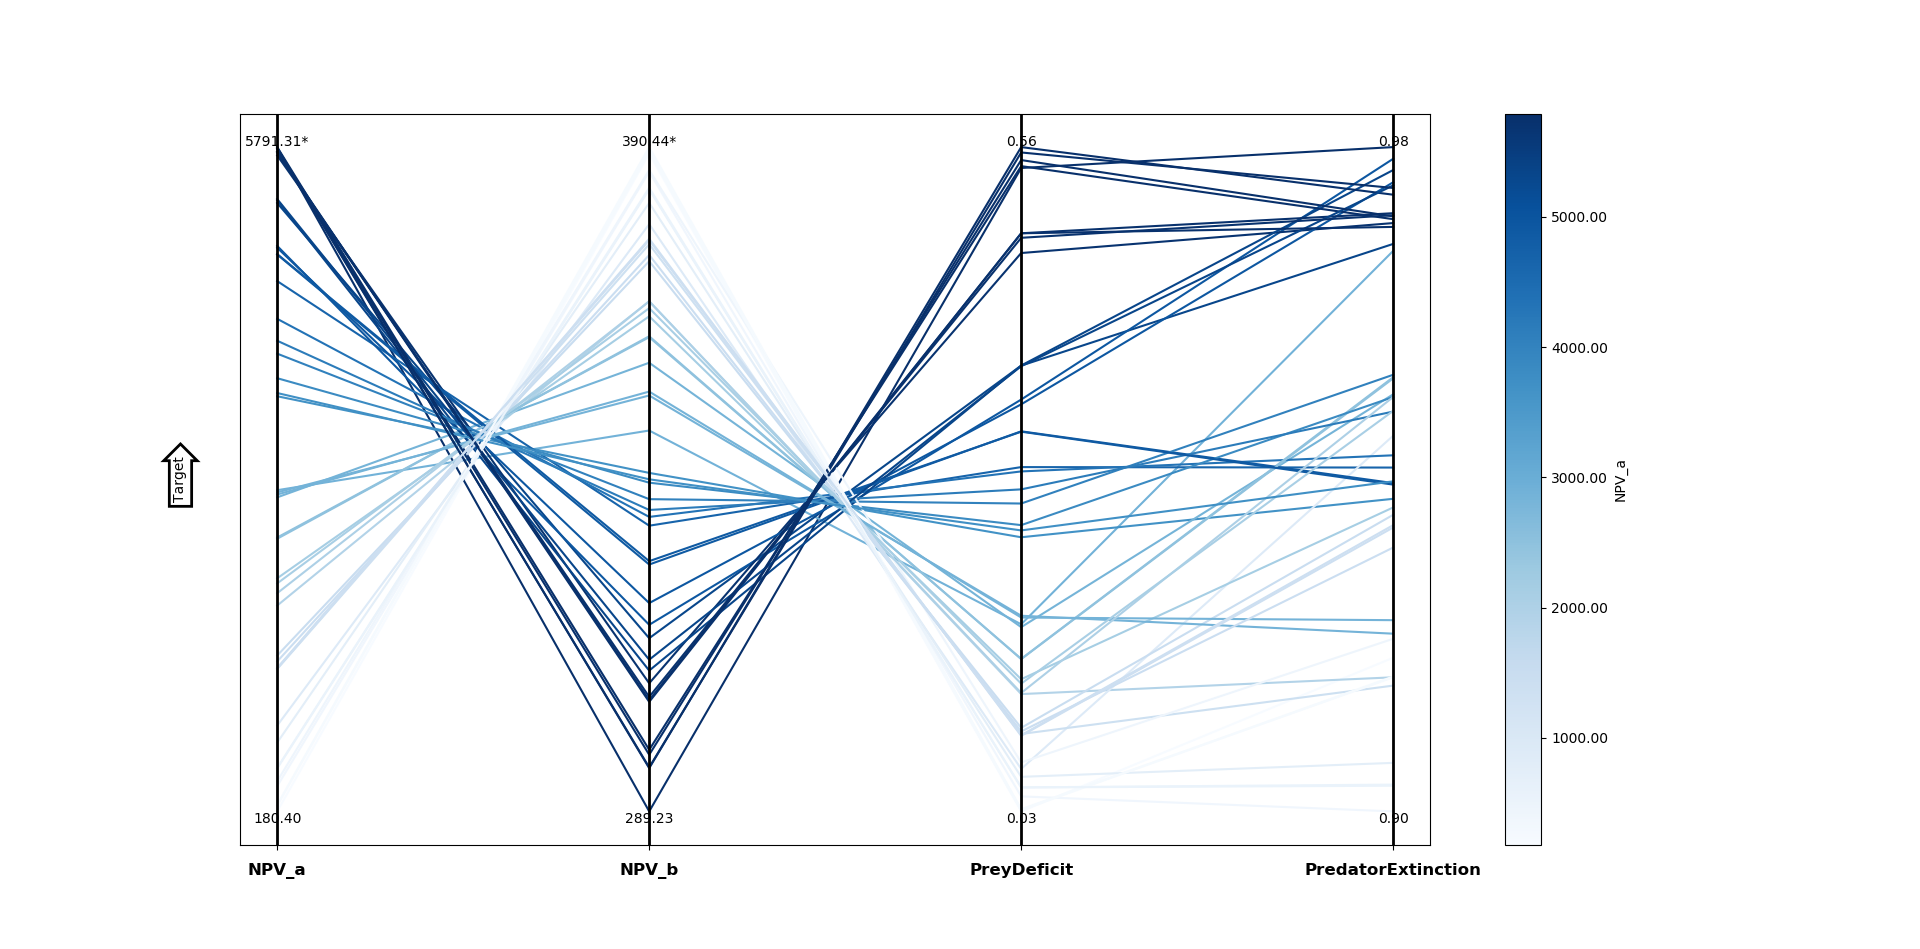
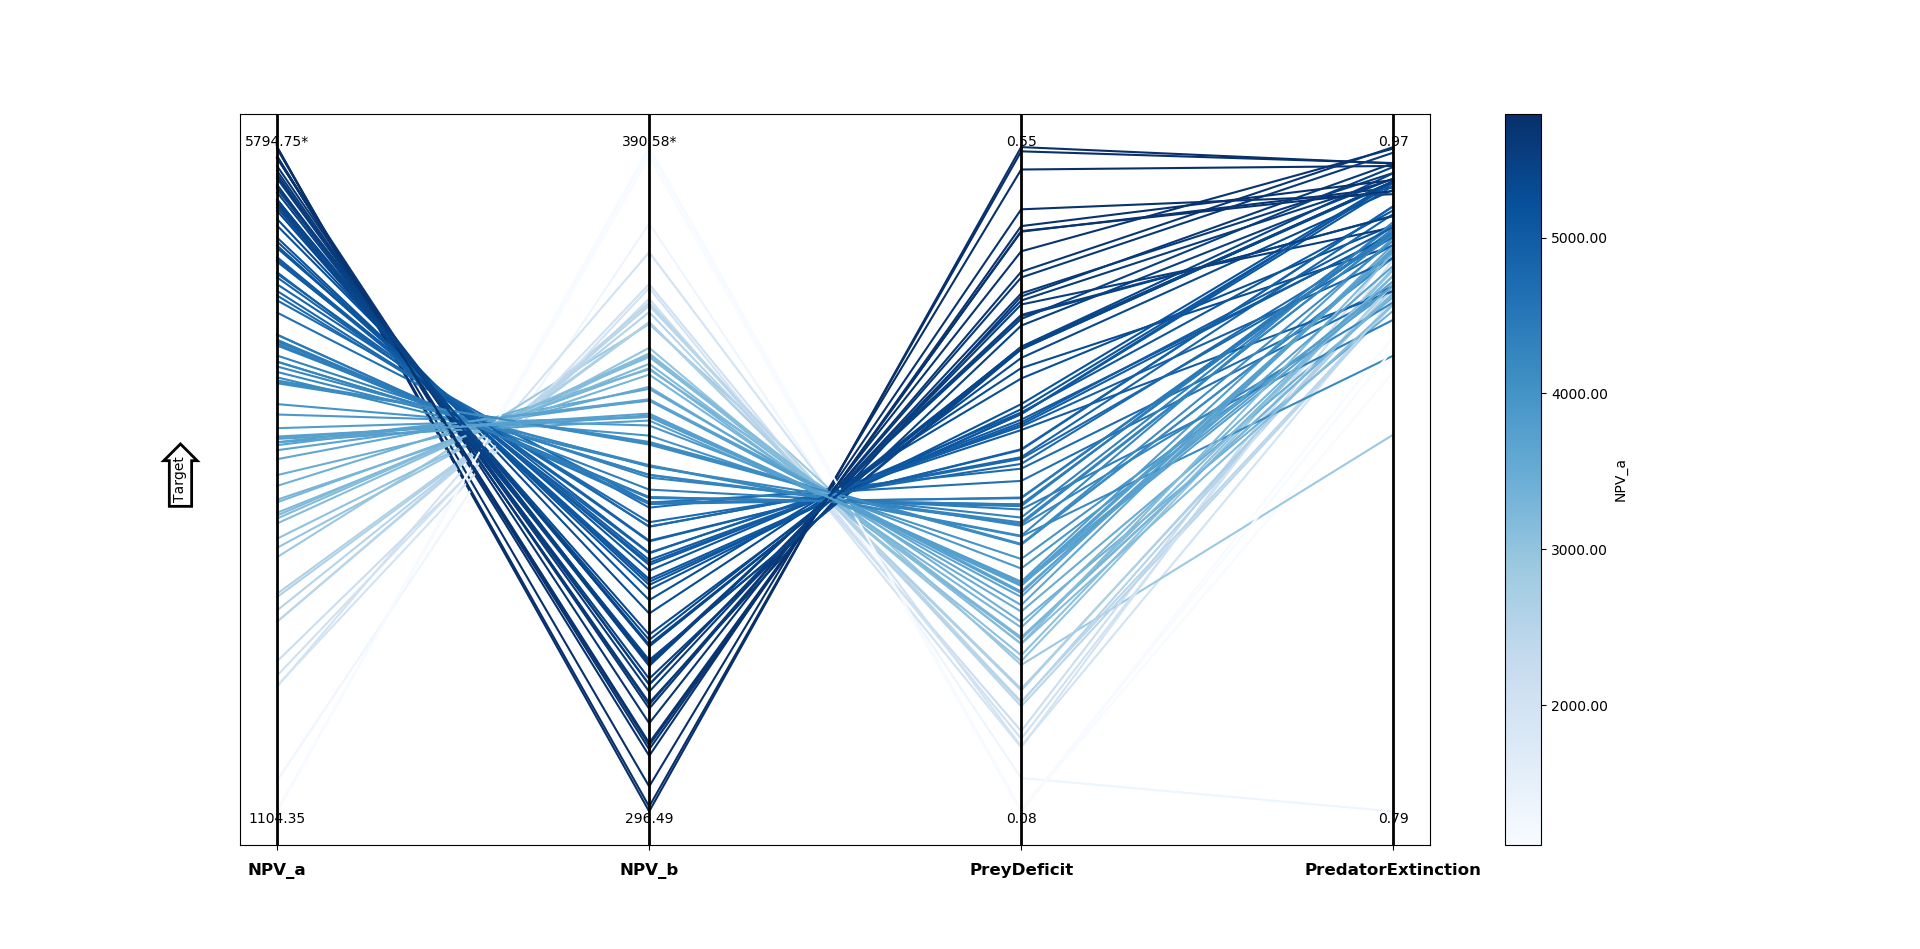
More NFE

diff --git a/examples/Fish_game/run_rhodium_DPS.py b/examples/Fish_game/run_rhodium_DPS.py
@@ -19,10 +19,10 @@ model.parameters = [Parameter("vars"),
 
 model.responses = [Response("NPV_a", Response.MAXIMIZE),
                    Response("NPV_b", Response.MAXIMIZE),
-                   Response("PreyDeficit", Response.INFO),
+                   Response("PreyDeficit", Response.MINIMIZE),
 #                   Response("ConsLowHarvest", Response.MINIMIZE),
 #                   Response("WorstHarvest", Response.MAXIMIZE),
-                   Response("PredatorExtinction", Response.INFO)]
+                   Response("PredatorExtinction", Response.MINIMIZE)]
 
 model.constraints = []#Constraint("PredatorExtinction < 1")]
 
@@ -38,14 +38,14 @@ model.uncertainties = [UniformUncertainty("a", 0.002, 2),
 
 model.levers = [RealLever("vars", 0.0, 1.0, length = 8)]
 
-output = optimize(model, "NSGAII", 1500)
+output = optimize(model, "NSGAII", 750)
 
 fig = parallel_coordinates(model, output, colormap="Blues", c= "NPV_a", target="top")
 #
 #J3(output.as_dataframe(list(model.responses.keys())[:-1]))
 #
 SOWs = sample_lhs(model, 1000)
-policy = output.find_max("NPV")
+policy = output.find_max("NPV_a")
 results = evaluate(model, update(SOWs, policy))
 ##
 #result = sa(model, "NPV", policy=policy, method="sobol", nsamples=1000)

diff --git a/examples/Fish_game/run_rhodium_intertemporal.py b/examples/Fish_game/run_rhodium_intertemporal.py
@@ -1,6 +1,6 @@
 import sys
 sys.path.append('../')
-from System_formulations.two_harvesters_coop import fish_game
+from System_formulations.two_harvesters_intertemporal import fish_game
 from rhodium import * 
 from j3 import J3
 
@@ -36,7 +36,7 @@ model.uncertainties = [UniformUncertainty("a", 0.002, 2),
                        UniformUncertainty("sigmaX", 0.001, 0.01),
                        UniformUncertainty("sigmay", 0.001, 0.01)]
 
-model.levers = [RealLever("vars", 0.0, 1.0, length = 8)]
+model.levers = [RealLever("vars", 0.0, 1.0, length = 200)]
 
 output = optimize(model, "NSGAII", 1500)
 
@@ -45,7 +45,7 @@ fig = parallel_coordinates(model, output, colormap="Blues", c= "NPV_a", target="
 #J3(output.as_dataframe(list(model.responses.keys())[:-1]))
 #
 SOWs = sample_lhs(model, 1000)
-policy = output.find_max("NPV")
+policy = output.find_max("NPV_a")
 results = evaluate(model, update(SOWs, policy))
 ##
 #result = sa(model, "NPV", policy=policy, method="sobol", nsamples=1000)
